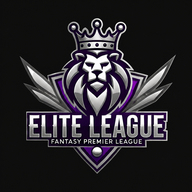
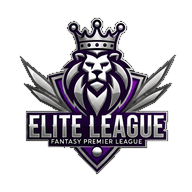
Key out the crest backgrounds so they sit on their headers
The Elite crest read as a black tile inside the purple banner: the
PNG carried its own black plate, which every league's crest does.

The plate is now keyed out by flooding transparency inwards from the
border, rather than by removing dark pixels wholesale — the lion's
outlines, the shield shadows and the deep purple are all dark, and a
blanket threshold would have punched holes through the artwork.
Anything enclosed by the crest survives; only the background plate
goes. The alpha edge is feathered slightly so the cut does not leave
a hard halo on the anti-aliased outline.

Applied to all four league crests. It mattered most on Elite, over
purple, and on Arab, where I had put a white plaque behind the mark
to give it a light ground — with the plate keyed out the emblem's
own white sphere reads directly against the navy, as it is drawn, so
the plaque and Libyan's hairline frame are both gone.

Also caught a page missed in the previous commit: the Elite history
header still loaded elite_league_logo.png at 5,201KB, from
core/elite_history.py rather than from a template. No page anywhere
references the original now.

Verified: every league header resolves to its 192px mark, the
rendered logo has a transparent corner and no plaque behind it, and
the four marks are 18-39KB.

diff --git a/static/css/arab.css b/static/css/arab.css
@@ -72,10 +72,12 @@ body {
 .logo-title { color: #ffffff; }
 .logo-subtitle { color: rgba(255, 255, 255, 0.62); letter-spacing: 0.2em; }
 
+/* No plaque: the crest's background is keyed out, so its white sphere reads
+   directly against the navy the way the emblem is drawn. */
 .logo-img {
-    border-radius: 8px;
-    background: #ffffff;
-    padding: 2px;
+    border-radius: 0;
+    background: transparent;
+    padding: 0;
 }
 
 /* Labelled navigation — base component is in style.css; these are the colours

diff --git a/static/css/libyan.css b/static/css/libyan.css
@@ -351,8 +351,8 @@ body .zone-indicator {
 /* The crest gets a plaque rather than sitting loose in the header. */
 body .logo-img {
     border-radius: 0;
-    border: 1px solid var(--libyan-gold-line);
-    padding: 2px;
+    border: 0;
+    padding: 0;
 }
 
 body .logo-title {

diff --git a/core/elite_history.py b/core/elite_history.py
@@ -84,7 +84,7 @@ def get_elite_history_data():
     if not history:
         return {
             'league_name': 'دوري النخبة',
-            'logo_file': 'elite_league_logo.png',
+            'logo_file': 'elite_mark_192.png',
             'back_url': '/league/elite',
             'gameweeks': [],
             'history': {},
@@ -95,7 +95,7 @@ def get_elite_history_data():
 
     return {
         'league_name': 'دوري النخبة',
-        'logo_file': 'elite_league_logo.png',
+        'logo_file': 'elite_mark_192.png',
         'back_url': '/league/elite',
         'gameweeks': gameweeks,
         'history': history,
